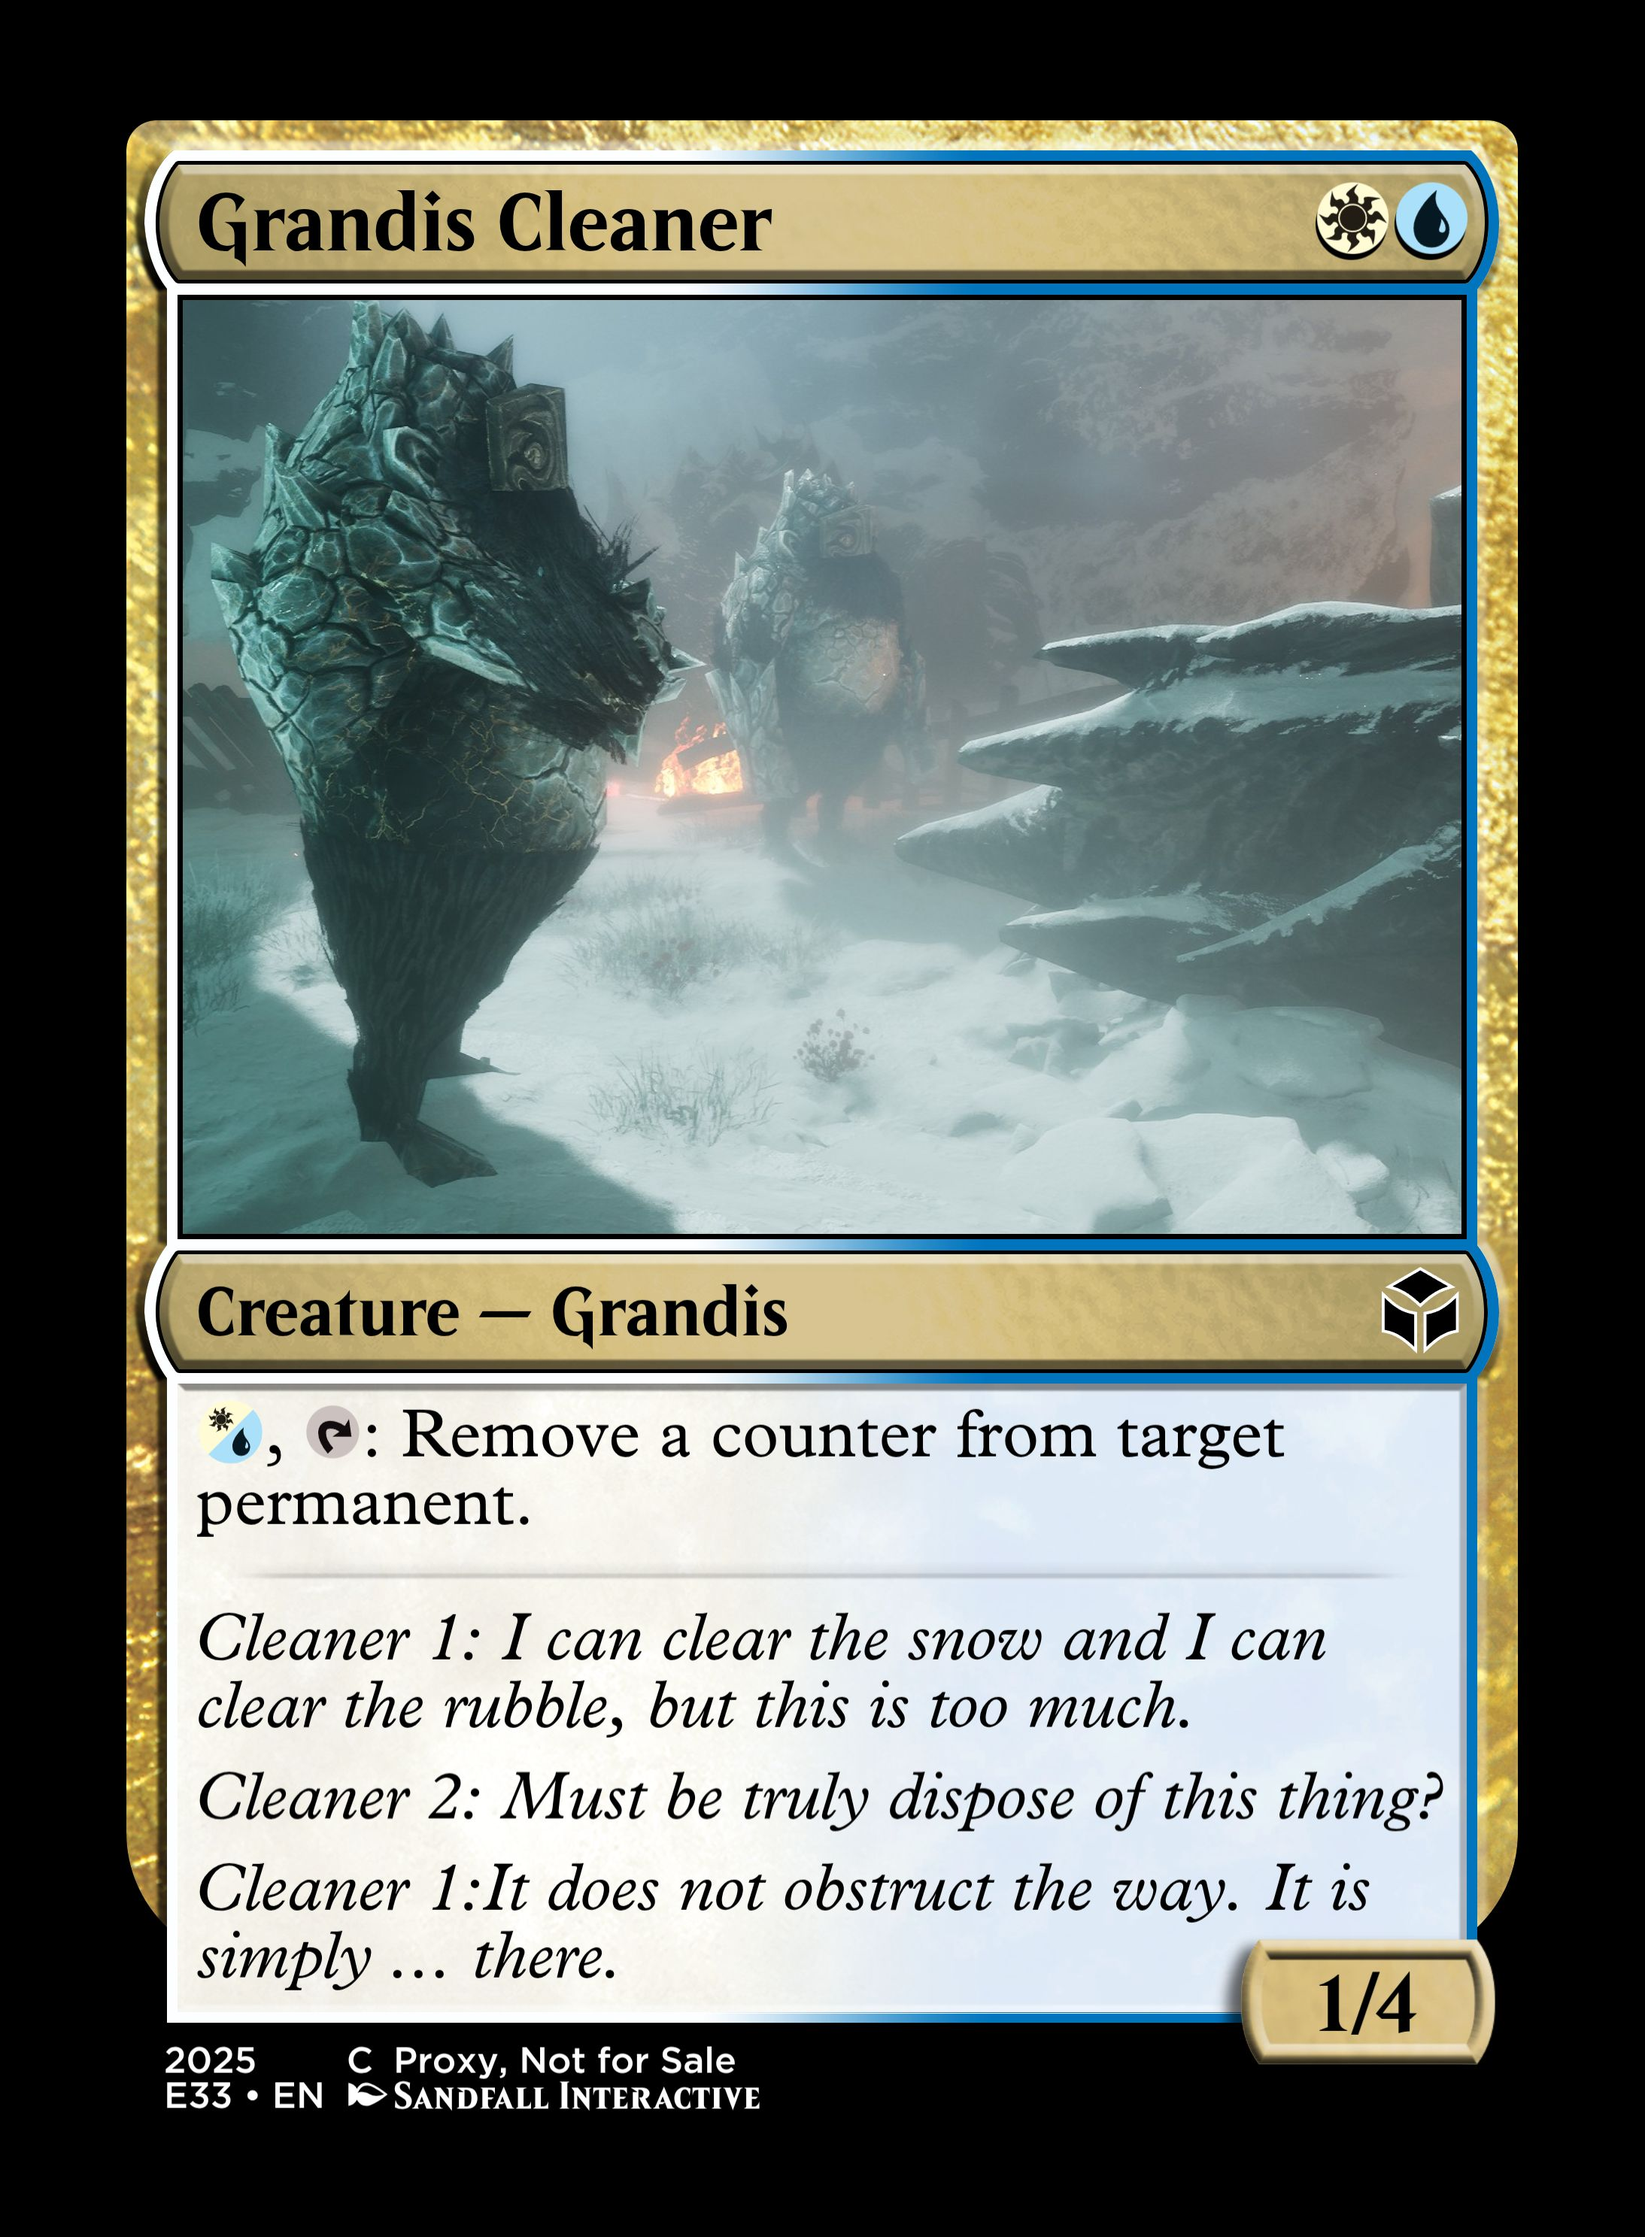
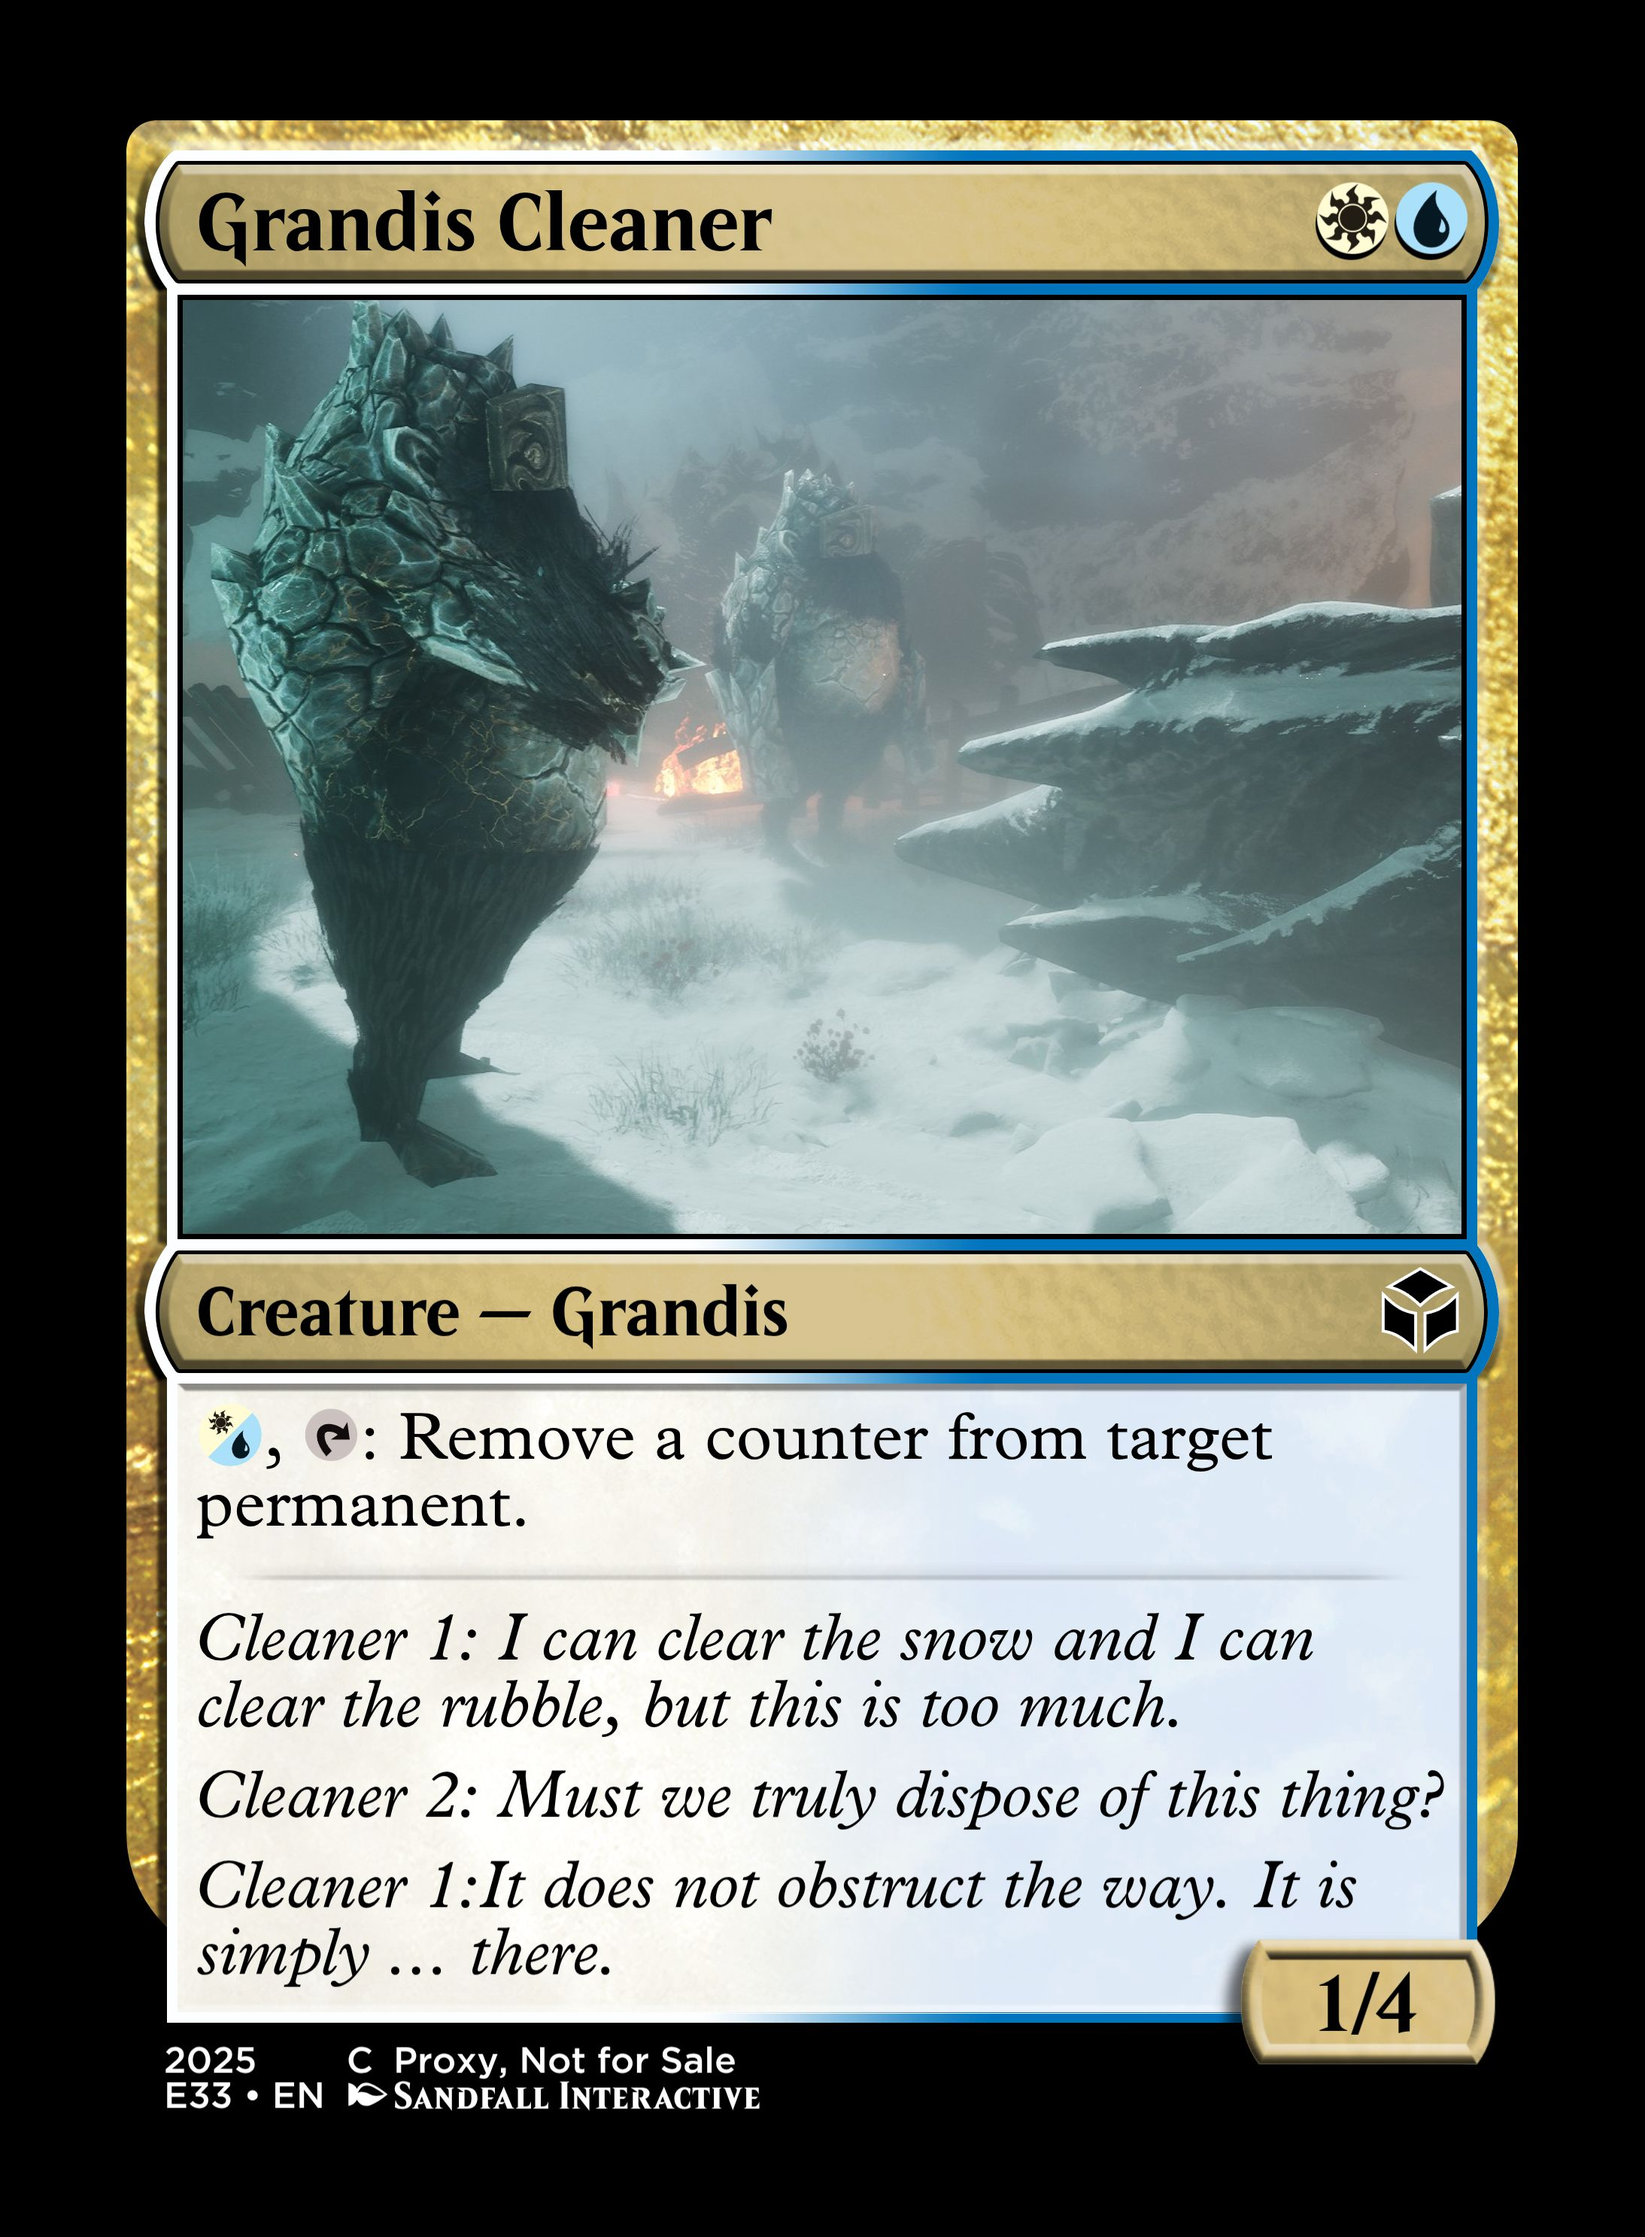
Grandis Cleaner: Fix flavor text typo

Changed region(s): [[0.1244, 0.7113, 0.8706, 0.8968], [0.1244, 0.6185, 0.7773, 0.6803]]

diff --git a/design/MULTICOLOR.md b/design/MULTICOLOR.md
@@ -1,6 +1,6 @@
 # Cards
 
-> Last generated: 19/1/2026 6:23:08 pm
+> Last generated: 19/1/2026 8:37:32 pm
 
 ## A Storm is Coming
 
@@ -1309,7 +1309,7 @@ Creature - Grandis
 {W/U}, {T}: Remove a counter from target permanent.
 ---
 Cleaner 1: I can clear the snow and I can clear the rubble, but this is too much.
-Cleaner 2: Must be truly dispose of this thing?
+Cleaner 2: Must we truly dispose of this thing?
 Cleaner 1:It does not obstruct the way. It is simply ... there.
 
 1/4
